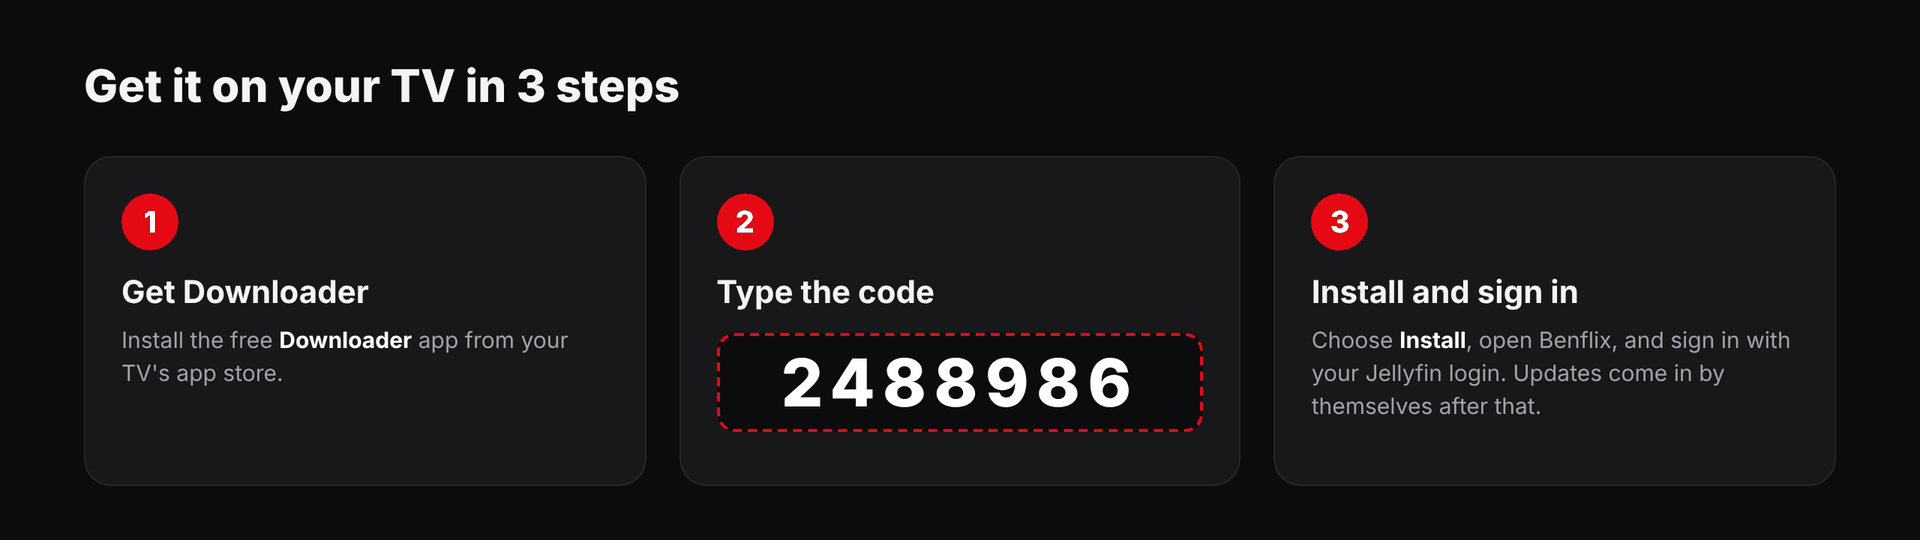
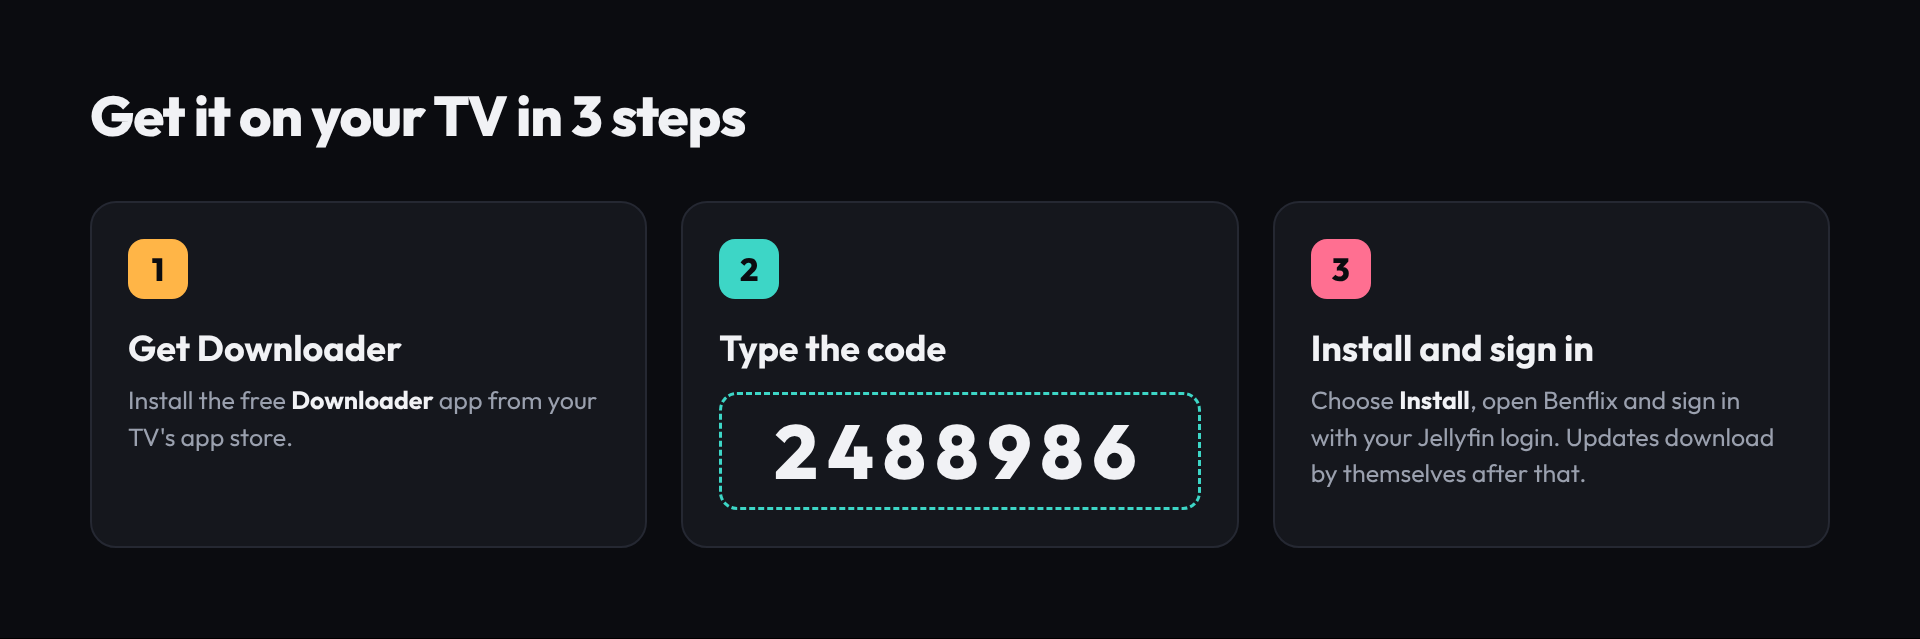
A fresh GitHub page with the new Benflix look (#337)
Claude-Session: https://claude.ai/code/session_01LFUoFdzAvD6ezmq4Gp9Kc5

diff --git a/README.md b/README.md
@@ -1,15 +1,16 @@
 <p align="center">
-  <img src="docs/readme/hero.jpg" alt="Benflix on a TV and a phone (illustration)" width="100%"/>
+  <img src="docs/readme/hero.jpg" alt="Benflix on a TV and a phone: the Home screen with five coloured doors for Movies, Shows, Live TV, Games and Music" width="100%"/>
 </p>
 
 <p align="center">
-  <a href="https://github.com/TheBenPsych/MyStream/releases/tag/latest-build"><img alt="Download the latest build" src="https://img.shields.io/badge/download-latest%20build-E50914?style=for-the-badge"/></a>
-  <img alt="Downloader code 2488986" src="https://img.shields.io/badge/Downloader%20code-2488986-27272A?style=for-the-badge"/>
-  <img alt="Android TV, Google TV, Fire TV and phones" src="https://img.shields.io/badge/TV%20%2B%20phone-Android-3DDC84?style=for-the-badge&logo=android&logoColor=white"/>
+  <a href="https://github.com/TheBenPsych/MyStream/releases/tag/latest-build"><img alt="Download the latest build" src="https://img.shields.io/badge/download-latest%20build-FFB547?style=for-the-badge&labelColor=0B0C10"/></a>
+  <img alt="Downloader code 2488986" src="https://img.shields.io/badge/Downloader%20code-2488986-3DD6C6?style=for-the-badge&labelColor=0B0C10"/>
+  <img alt="Android TV, Google TV, Fire TV, phones and web" src="https://img.shields.io/badge/TV%20%C2%B7%20phone%20%C2%B7%20web-7AA7FF?style=for-the-badge&logo=android&logoColor=white&labelColor=0B0C10"/>
 </p>
 
 <p align="center">
   <a href="#what-is-benflix">What is it?</a> ·
+  <a href="#a-quick-look">A quick look</a> ·
   <a href="#whats-inside">What's inside</a> ·
   <a href="#how-to-install">How to install</a> ·
   <a href="#for-the-server-admin">For the server admin</a> ·
@@ -18,9 +19,11 @@
 
 ## What is Benflix?
 
-Benflix is a home streaming app. It plays the movies and shows you already keep on your own
-[Jellyfin](https://jellyfin.org/) server, and makes them look and feel like a big streaming service.
-It also plays your retro games right on the TV or phone.
+Benflix is a home streaming app. It plays the movies, shows and music you already keep on your own
+[Jellyfin](https://jellyfin.org/) server, adds live TV channels, and plays your retro games right on the TV or phone.
+
+Everything sits behind **five coloured doors**: 🟧 **Movies**, 🟦 **Shows**, 🟩 **Live TV**, 🟥 **Games** and 🟪 **Music**.
+Each door keeps its colour everywhere inside it, so you always know where you are.
 
 It is a personal project for family and friends. It is not in the Google Play Store or the Amazon Appstore,
 so you install it yourself. It takes about five minutes, see [How to install](#how-to-install).
@@ -29,8 +32,21 @@ Benflix is built on top of the excellent open-source app [Wholphin](https://gith
 See [Credits and license](#credits-and-license).
 
 <p align="center">
-  <img src="docs/readme/how-it-fits.png" alt="Your server at home runs Jellyfin, Seerr, RomM and Trailarr. Benflix on your TV, your phone and a PC browser connects to it." width="100%"/>
+  <img src="docs/readme/how-it-fits.png" alt="Your server at home runs Jellyfin, Seerr, Lidarr, RomM, the Benflix helper, Trailarr, Sonarr and Radarr. Benflix on your TV, your phone and in a web browser connects to it." width="100%"/>
 </p>
+
+## A quick look
+
+<p align="center">
+  <img src="docs/readme/tv-tour.jpg" alt="Benflix on the TV: a show page, Live TV, Games, the Music page, the Now playing screen with lyrics, and Search" width="100%"/>
+</p>
+
+<p align="center">
+  <img src="docs/readme/phone-tour.jpg" alt="Real screenshots of Benflix on a phone: Home, Movies, Shows, Live TV, Games, Search, a movie page and Settings" width="100%"/>
+</p>
+
+<sub>The phone pictures are real screenshots, taken by the test robot on the public Jellyfin demo server.
+The TV pictures come from the finished Benflix design, with made-up titles.</sub>
 
 ## What's inside
 
@@ -38,45 +54,67 @@ See [Credits and license](#credits-and-license).
 <tr>
 <td width="50%" valign="top">
 
-### 🎬 Movies and shows
-- A **Netflix-style Home** with a big rotating banner and a muted trailer behind it
-- Rows for **Continue watching**, **Top 10**, seasonal picks, **Because you watched**, **Pick a mood**, **New on Benflix**, **My List**, collections, genres and studios
-- **Browse** menu for Movies, Shows, Anime, Stand up and Music, each with its own mini Home
-- **Rotten Tomatoes** scores, "New episode" badges and a **Surprise me** button
-- Anime gets its own Top 10, Dubbed and Subbed tabs, and AniList scores
+### 🟧 Movies and 🟦 Shows
+- Each door opens on a big **Picked for you** banner, then **Keep watching**, **My List**, **Top 10**, collections and more
+- Clean title pages with **IMDb** and **Rotten Tomatoes** scores, a trailer that fades in, and **More like this**
+- **Did you know?** fun facts on movie and show pages
+- Shows list every season and episode, with "New episode" news on Home
+- Anime gets its own picks, Dubbed and Subbed, plus **AniList** and **MyAnimeList** scores
+- An **All movies** and **All shows** grid you can sort by newest, A to Z or year
 
 </td>
 <td width="50%" valign="top">
 
 ### ▶ Watching
-- Netflix-style player with **Skip intro** and **Skip credits** (or always skip, per show)
-- The next episode plays by itself
-- Trailers play right inside the app
-- Ambient mode when you pause
+- A clean player with **Skip intro** and **Skip credits** that find the right spot by themselves
+- The next episode plays by itself (you choose when it stops)
+- Subtitles move out of the way of on-screen words
+- A **parents' guide** on every title
 - Two video players (ExoPlayer and MPV) for the best subtitle support
-- Optional **AniList** tracking for anime fans
 
 </td>
 </tr>
 <tr>
 <td width="50%" valign="top">
 
-### 🎮 Games
-- Play your retro games **right on the TV or phone**, no streaming needed
-- Over 20 game systems, from NES and Game Boy to Nintendo 64 and arcade
-- Play with the **TV remote**, a **Bluetooth controller**, or **your phone** as the game pad
-- Three save slots with pictures, plus your saves follow you
-- Watch a show in a small window **next to your game**
-- High scores and leaderboards, including movie mini-games like Higher or Lower
+### 🟪 Music
+- **Daily mixes** made for you, refreshed every morning
+- Album, artist and playlist pages that look like movie pages
+- A **Now playing** screen with **lyrics** and colourful music bars
+- **Save songs to your phone** to listen with no internet
+- Bring in your playlists from **Spotify, YouTube Music** or **Deezer**
+- Music also plays in Benflix in your web browser
 
 </td>
 <td width="50%" valign="top">
 
-### 🙋 Requests
-- Ask for a new movie or show from the **Requests** tab (powered by [Seerr](https://github.com/seerr-team/seerr))
-- Pick just the seasons you want
-- See when it's on its way, and get told if it can't be found
-- The admin can **Approve** or **Decline** from the same page
+### 🟩 Live TV
+- About **600 hand-picked channels**, sorted into types like News, Movies, Comedy, Kids and Holiday
+- **Benflix channels** with no ads, built from your own movies and shows, and you can **make your own channel**
+- Favourites, a TV guide, and number keys to jump to a channel
+- **Pause live TV**, and get a reminder before a big event starts
+
+</td>
+</tr>
+<tr>
+<td width="50%" valign="top">
+
+### 🟥 Games
+- Play your retro games **right on the TV or phone**, no streaming needed
+- Over 20 game systems, from NES and Game Boy to PlayStation and arcade
+- Play with the **TV remote**, a **Bluetooth controller**, or **your phone** as the game pad
+- Save slots with pictures, and your saves follow you
+- Party games like **Quiz night**, movie puzzles, leaderboards and the **Ember Road** pixel adventure
+
+</td>
+<td width="50%" valign="top">
+
+### 🔎 Search and 🙋 Requests
+- **One search for everything**: movies, shows, live channels, games and music, side by side
+- Search in plain words, or with your voice, or type on your phone
+- Can't find it? **Ask for it** right from Search
+- Ask for **movies and shows** (powered by [Seerr](https://github.com/seerr-team/seerr)) or **songs, albums and playlists** (powered by [Lidarr](https://lidarr.audio/))
+- See when it's on its way, and get told when it's ready to watch
 
 </td>
 </tr>
@@ -84,35 +122,26 @@ See [Credits and license](#credits-and-license).
 <td width="50%" valign="top">
 
 ### 👨👩👧 Profiles for everyone
-- **Who's watching?** screen with a wall of your own posters behind it
-- Fun avatars, plus an optional PIN for each profile
-- A **Kids** profile on every account that only shows kid-friendly titles
-- 👍 / 👎 likes for each profile
-- Your settings and profile picture follow you to every TV and phone
+- A friendly **Who's watching?** screen and a short startup intro where the doors grow out of the logo
+- Fun avatars on a colour you pick, plus an optional PIN for each profile
+- A **Kids** profile that only shows kid-friendly titles, and an **Easy mode** with bigger words
+- 👍 / 👎 likes, a **My watching** page with your stats, and your settings follow you to every device
 
 </td>
 <td width="50%" valign="top">
 
-### 📱 Phone extras
-- A touch-friendly layout with a menu at the bottom
-- **My Benflix** page with all your lists and settings
+### 📱 Phone and 🌐 web
+- A touch-friendly phone layout, with the same five doors
 - Use your phone as a **TV remote**, or send something to **Play on TV**
-- **Quick Connect**: sign a new TV in by typing its 6-digit code on your phone
+- **Quick Connect**: sign a new TV in by typing its code on your phone
+- **Web Benflix**: open your server's address in any web browser, at home or away, no install needed
 
 </td>
 </tr>
 </table>
 
-<p align="center">
-  <img src="docs/readme/avatars.png" alt="The Benflix profile avatars" width="80%"/>
-</p>
-
-And a few small touches: the logo dresses up for holidays and birthdays, there's a screensaver with
-movie artwork and fun facts, and the app **updates itself**.
-
-<p align="center">
-  <img src="docs/readme/holiday-logos.png" alt="Holiday versions of the Benflix logo: Christmas, Halloween, Valentine's Day and a birthday" width="100%"/>
-</p>
+And a few small touches: change any **poster** you don't like, a screensaver with artwork and fun facts,
+and Benflix **updates itself** quietly in the background.
 
 ## How to install
 
@@ -130,8 +159,8 @@ movie artwork and fun facts, and the app **updates itself**.
 2. Install the free **Downloader** app from your TV's app store.
 3. Open Downloader, type the code **`2488986`** and press **Go**.
 4. When it finishes downloading, choose **Install**.
-5. Open Benflix, type your Jellyfin server address, and sign in.
-   (Already signed in on your phone? Use **Quick Connect** instead of typing your password.)
+5. Open Benflix. At home it finds your server by itself; otherwise type the server address, then sign in.
+   (Already signed in on your phone? Use **Sign in with my phone** instead of typing your password.)
 
 > [!NOTE]
 > The newest Fire TV sticks that run **Vega OS** can't install outside apps, so Benflix won't work on them.
@@ -139,42 +168,47 @@ movie artwork and fun facts, and the app **updates itself**.
 
 ### 📱 On an Android phone
 
-1. On your phone, open [aftv.news/2488986](https://aftv.news/2488986) (or tap the red **Download** badge at the top of this page and pick **Benflix.apk**).
+1. On your phone, open [aftv.news/2488986](https://aftv.news/2488986) (or tap the **Download** badge at the top of this page and pick **Benflix.apk**).
 2. When it finishes downloading, tap it. If your phone asks, allow your browser to install apps.
 3. Open Benflix and sign in.
 
+### 🌐 In a web browser
+
+Open your server's address on port `8097` (ask whoever runs the server) in any web browser and sign in.
+Nothing to install.
+
 ### 🔄 Getting updates
 
-You only install Benflix once. When a new version is ready, a red **!** shows up on the **Settings** cog on TV
-(or on **My Benflix** on your phone). Go to **Settings > Help > Install update** to see what's new and
+You only install Benflix once. New versions download quietly in the background. When one is ready, a dot
+shows on your picture; open your picture's menu and pick **Help and updates** to see what's new and
 install it in one click.
 
 ### 🍎 iPhone and Apple TV
 
-There is no Apple version. Apple users can use [Swiftfin](https://github.com/jellyfin/Swiftfin) or
-[Infuse](https://firecore.com/infuse) to watch from the same Jellyfin server.
+There is no Apple app. iPhone users can open **web Benflix** in Safari, or use
+[Swiftfin](https://github.com/jellyfin/Swiftfin) or [Infuse](https://firecore.com/infuse) to watch from the same Jellyfin server.
 
 ## For the server admin
 
 If you run the server, Benflix has a few extra tools that only admins see:
 
-- **Server page** in the app: a dashboard of who's watching, your libraries, downloads, problems and chores, with
-  fix-it buttons, a library scan button, and a way to send a pop-up message to one person
-- **Tools in a PC browser** at your server's address on port `8097`, no install needed
-- **Requests** to approve or decline, and "trending but missing" titles you could add
+- **Server page** in the app and in web Benflix: who's watching, your libraries, downloads, problems and chores,
+  with fix-it buttons, a **Benflix versions** list for every TV and phone, and a way to send a message to one person
+- **Requests** to approve or decline, for movies, shows and music
+- **Poster fixer** to swap bad posters one at a time
 
 **What the server needs:**
 
 | | Needed for | |
 |---|---|---|
 | [Jellyfin](https://jellyfin.org/) (version 12 recommended) | Everything | Required |
-| [Seerr / Jellyseerr](https://github.com/seerr-team/seerr) | The Requests tab | Optional |
-| [Trailarr](https://github.com/nandyalu/trailarr) | Trailers in the banner and on title pages | Optional |
-| Intro Skipper plugin | Skip intro and Skip credits | Optional |
-| [RomM](https://github.com/rommapp/romm) + the Benflix helper | Games | Optional |
+| Benflix helper (in the [`server`](server) folder) | Games, Live TV, web Benflix, Skip intro, music extras, fun facts | Recommended |
+| [Seerr / Jellyseerr](https://github.com/seerr-team/seerr) | Asking for movies and shows | Optional |
+| [Lidarr](https://lidarr.audio/) | Asking for music | Optional |
+| [RomM](https://github.com/rommapp/romm) | Your game library | Optional |
+| [Trailarr](https://github.com/nandyalu/trailarr) | Trailers on title pages | Optional |
 
-The Benflix helper and other server scripts are in the [`server`](server) folder. To set up games, run this in
-the Unraid terminal (**Tools > Terminal**):
+To set up (or update) the Benflix helper, run this in the Unraid terminal (**Tools > Terminal**). It's safe to run again any time:
 
 ```bash
 curl -fsSL https://raw.githubusercontent.com/TheBenPsych/MyStream/main/server/benflix-games-helper-setup.sh | bash
@@ -190,7 +224,7 @@ If you want a polished Jellyfin app from the Play Store, go get Wholphin!
 Thanks also to:
 - The [Jellyfin](https://jellyfin.org/) team for the media server
 - The official [Jellyfin Android TV](https://github.com/jellyfin/jellyfin-androidtv) app, which some of Wholphin's playback code is adapted from
-- The [Jellyfin Kotlin SDK](https://github.com/jellyfin/jellyfin-sdk-kotlin), [RomM](https://github.com/rommapp/romm), [Seerr](https://github.com/seerr-team/seerr) and all the other open-source projects this app uses
+- The [Jellyfin Kotlin SDK](https://github.com/jellyfin/jellyfin-sdk-kotlin), [RomM](https://github.com/rommapp/romm), [Seerr](https://github.com/seerr-team/seerr), [Lidarr](https://lidarr.audio/), [iptv-org](https://github.com/iptv-org/iptv) and all the other open-source projects this app uses
 
 Benflix is not connected to, or endorsed by, Netflix, Jellyfin or Wholphin.
 
@@ -205,6 +239,7 @@ and keep these credits.
 
 Benflix is built automatically by GitHub Actions every time a change lands on `main`. The newest APK
 is always on the [latest-build release](https://github.com/TheBenPsych/MyStream/releases/tag/latest-build).
-Every build is also checked for code that would crash on older TVs and phones.
+Every build is also checked for code that would crash on older TVs and phones, and a test robot clicks
+through every screen on a TV and a phone emulator.
 For build details, see [DEVELOPMENT.md](DEVELOPMENT.md) (written for Wholphin, mostly still accurate).
 The pictures on this page live in [`docs/readme`](docs/readme).
